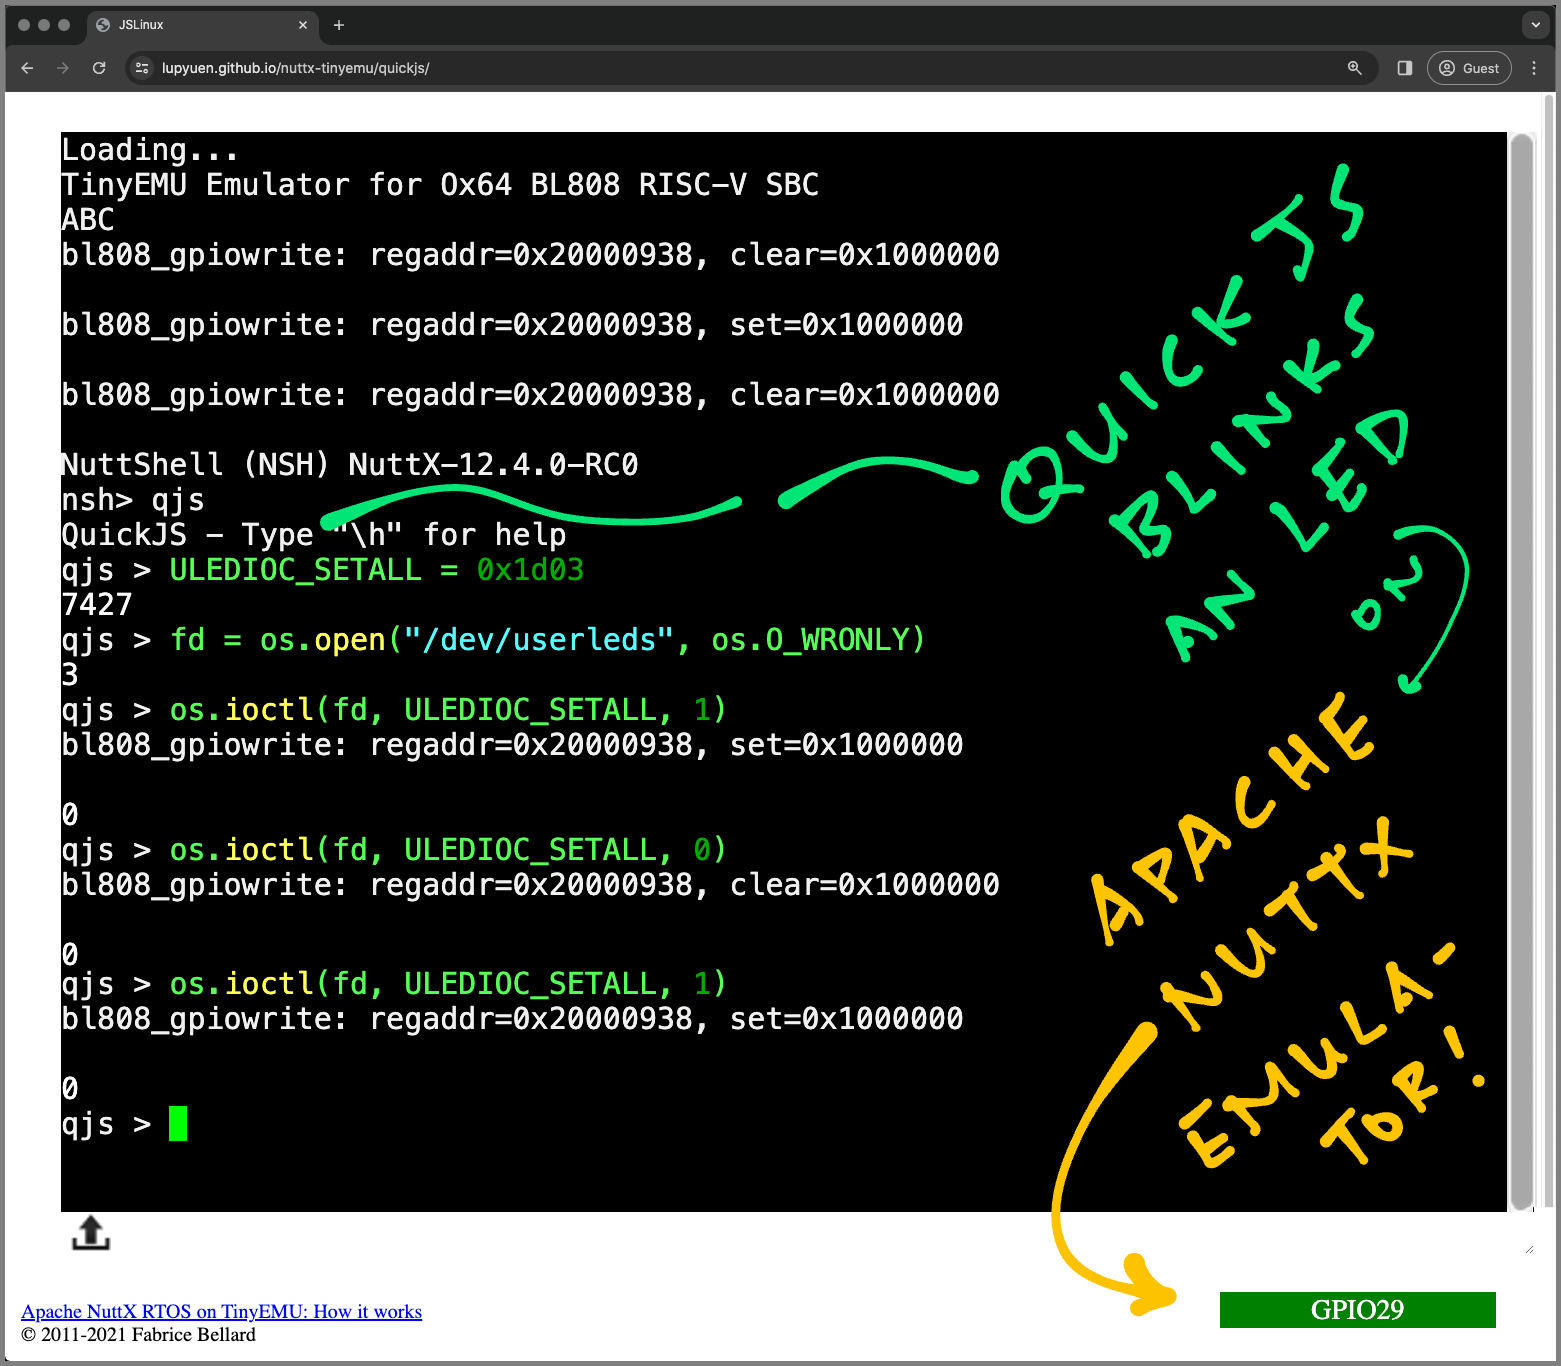
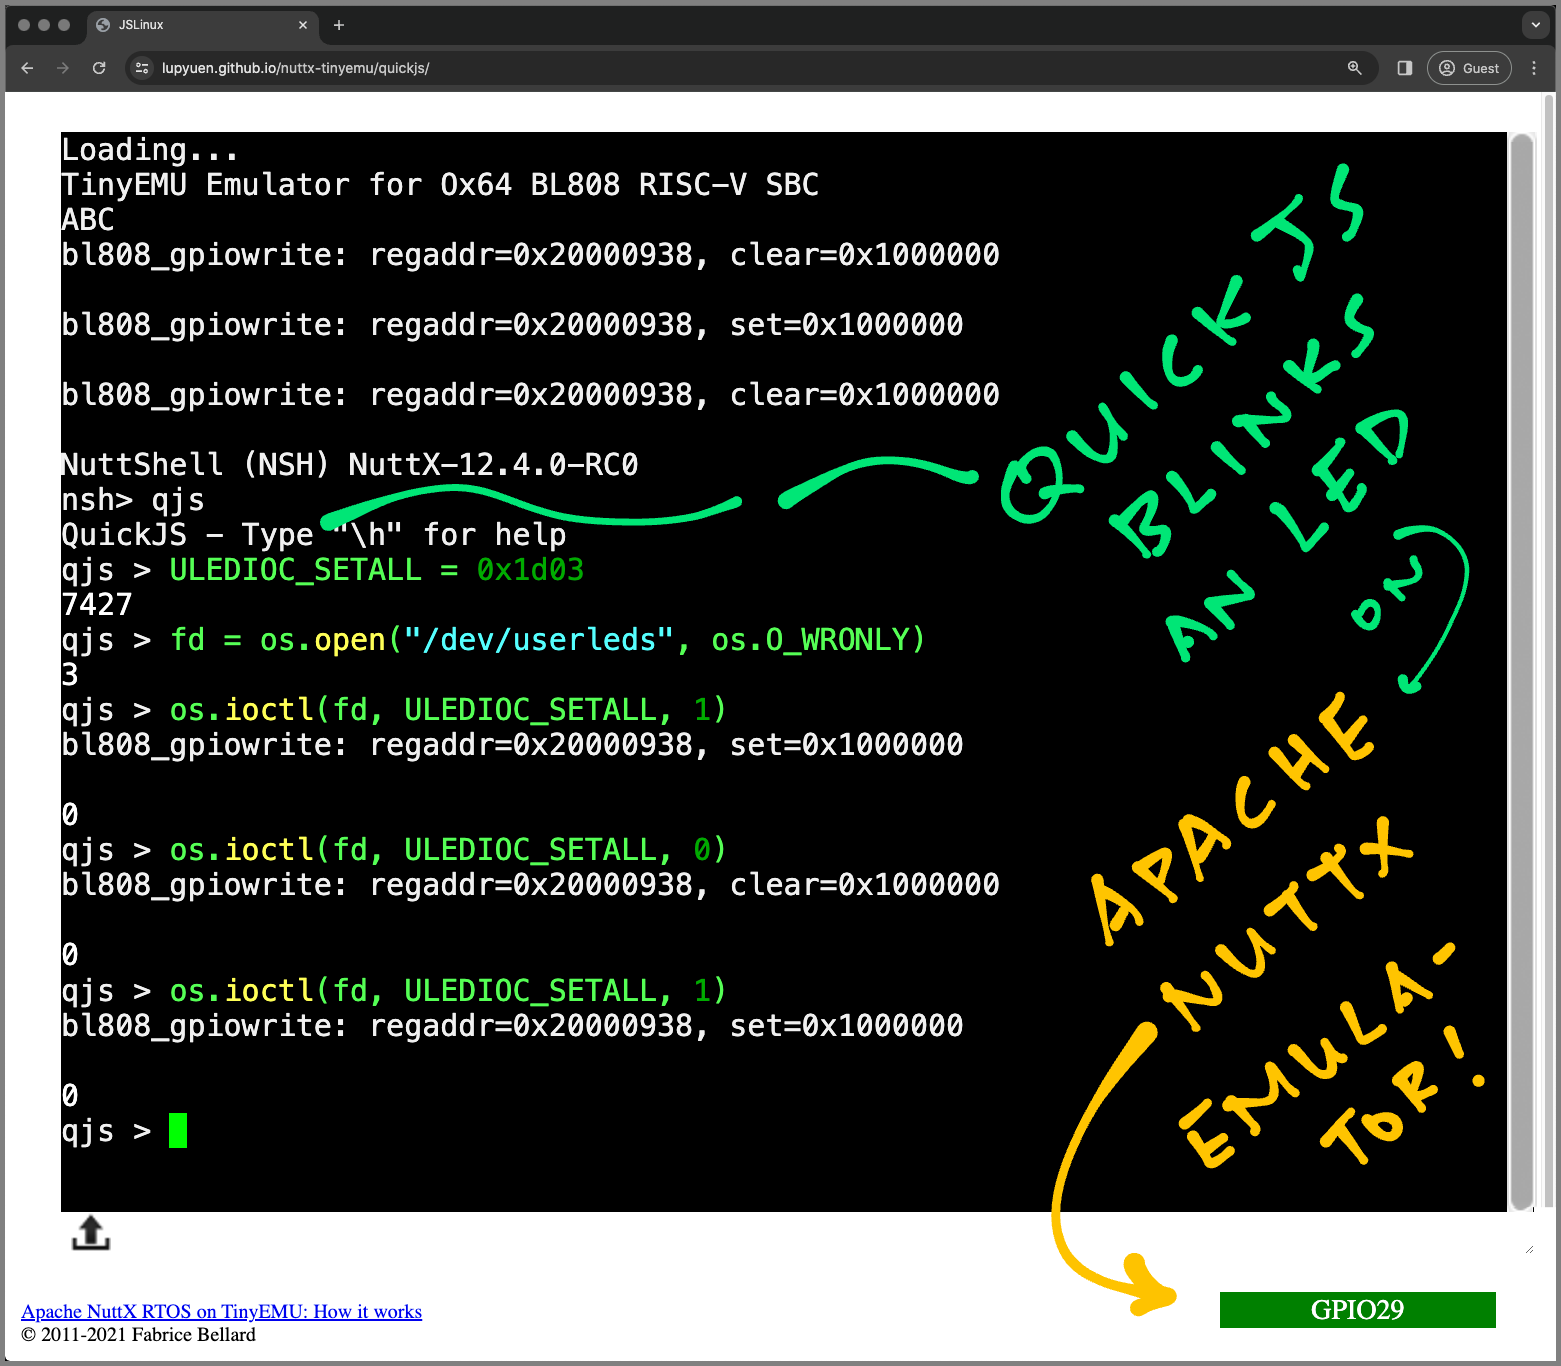
Update article

Changed region(s): [[0.0307, 0.7072, 0.615, 0.7687], [0.0307, 0.7994, 0.123, 0.8302]]

diff --git a/src/quickjs.md b/src/quickjs.md
@@ -52,6 +52,8 @@ Now we do some Finger Exercises (sorry __copy-pasta won't work__ in the Emulator
     ULEDIOC_SETALL = 0x1d03
     ```
 
+    [(About __ULEDIOC_SETALL__)](https://lupyuen.github.io/articles/nim#blink-an-led)
+
 1.  Next we open the __NuttX LED Device__ (write-only)...
 
     ```javascript
@@ -64,7 +66,7 @@ Now we do some Finger Exercises (sorry __copy-pasta won't work__ in the Emulator
     os.ioctl(fd, ULEDIOC_SETALL, 1)
     ```
 
-    __GPIO 29__ (lower right) turns Green!
+    __GPIO 29__ (pic above, lower right) turns Green!
 
 1.  Then we __Flip Off the LED__...
 
@@ -126,7 +128,7 @@ The exact same NuttX Image blinks a Real LED on [__Ox64 BL808 SBC__](https://www
 
 How did we make this happen? Read on to find out...
 
-TODO: Pic of Real LED
+TODO: Pic of ???
 
 # Build QuickJS for NuttX
 
@@ -443,9 +445,9 @@ And experiment with all kinds of __NuttX Drivers__ via ioctl(), the Interactive 
 
 _Any diff between QEMU and Ox64 QuickJS?_
 
-QuickJS for NuttX QEMU is more Memory-Efficient because it uses [__Static Linking__](TODO).
+QuickJS for NuttX QEMU is more Memory-Efficient because it uses [__Static Linking__](https://github.com/apache/nuttx/pull/11524). (Instead of ELF Loader fixing the Relocatable Symbols)
 
-Ox64 QuickJS is kinda chonky right now. But we might reduce the size by ??? % when we switch to Static Linking.
+Right now Ox64 QuickJS is kinda chonky: 23 MB! We might reduce the size to 5 MB when we switch to Static Linking.
 
 ![QuickJS JavaScript Engine to Apache NuttX RTOS](https://lupyuen.github.io/images/quickjs-title.png)
 
